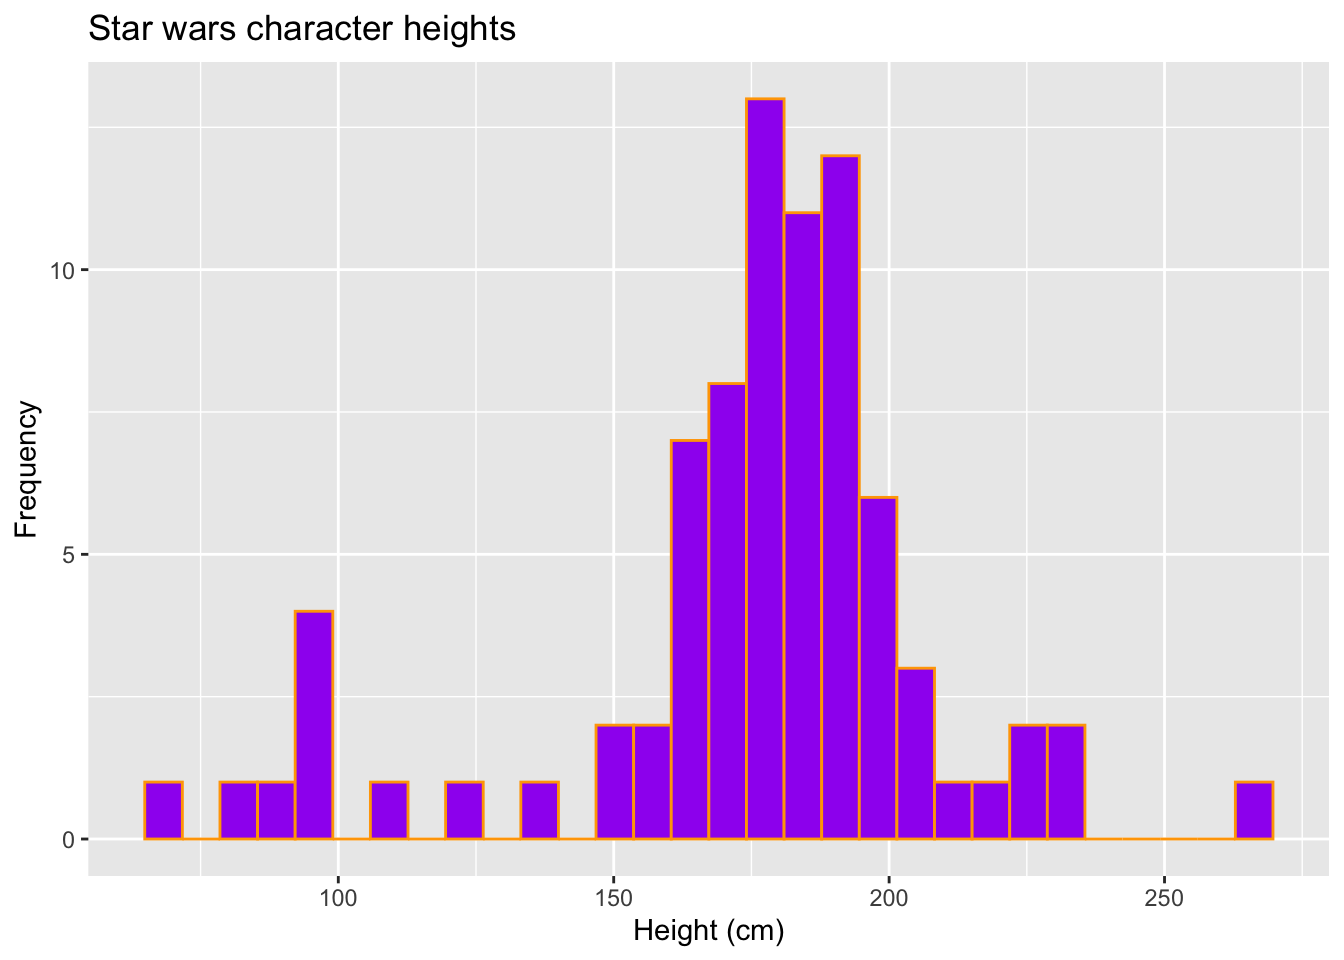
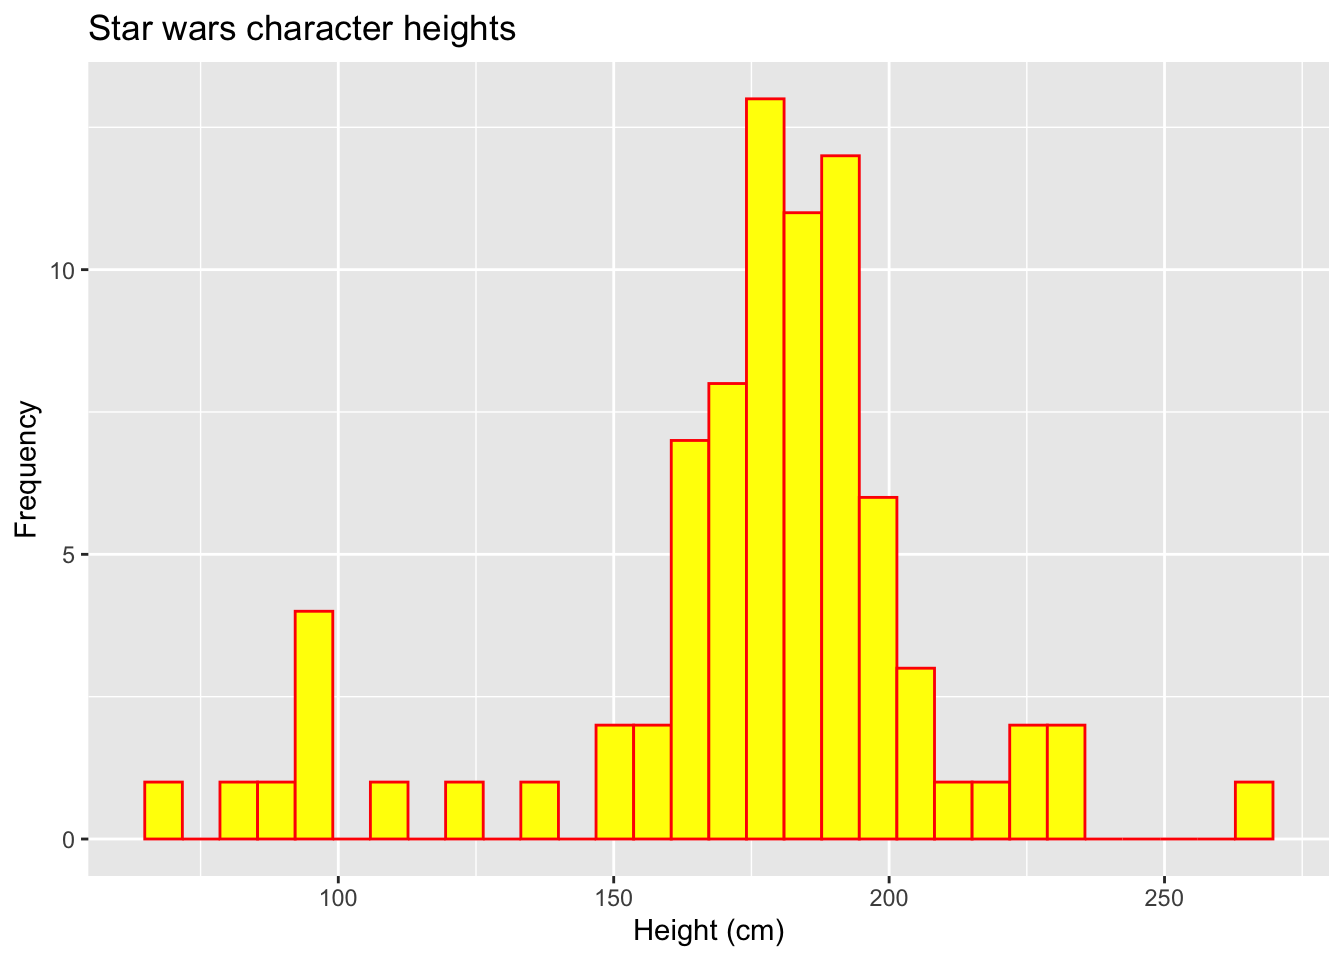
changed those colors again

Changed region(s): [[0.0938, 0.0938, 0.8125, 0.875], [0.9062, 0.8125, 0.9688, 0.875]]

diff --git a/eds212-day5a.html b/eds212-day5a.html
@@ -116,7 +116,7 @@ pre > code.sourceCode > span > a:first-child::before { text-decoration: underlin
 <div class="cell">
 <div class="sourceCode cell-code" id="cb2"><pre class="sourceCode r code-with-copy"><code class="sourceCode r"><span id="cb2-1"><a href="#cb2-1" aria-hidden="true" tabindex="-1"></a><span class="co"># histogram of character heights ----</span></span>
 <span id="cb2-2"><a href="#cb2-2" aria-hidden="true" tabindex="-1"></a><span class="fu">ggplot</span>(starwars, <span class="fu">aes</span>(<span class="at">x =</span> height)) <span class="sc">+</span></span>
-<span id="cb2-3"><a href="#cb2-3" aria-hidden="true" tabindex="-1"></a>  <span class="fu">geom_histogram</span>(<span class="at">fill =</span> <span class="st">"purple"</span>, <span class="at">color =</span> <span class="st">"orange"</span>) <span class="sc">+</span></span>
+<span id="cb2-3"><a href="#cb2-3" aria-hidden="true" tabindex="-1"></a>  <span class="fu">geom_histogram</span>(<span class="at">fill =</span> <span class="st">"yellow"</span>, <span class="at">color =</span> <span class="st">"red"</span>) <span class="sc">+</span></span>
 <span id="cb2-4"><a href="#cb2-4" aria-hidden="true" tabindex="-1"></a>  <span class="fu">labs</span>(<span class="at">x =</span> <span class="st">"Height (cm)"</span>, </span>
 <span id="cb2-5"><a href="#cb2-5" aria-hidden="true" tabindex="-1"></a>       <span class="at">y =</span> <span class="st">"Frequency"</span>, </span>
 <span id="cb2-6"><a href="#cb2-6" aria-hidden="true" tabindex="-1"></a>       <span class="at">title =</span> <span class="st">"Star wars character heights"</span>)</span></code><button title="Copy to Clipboard" class="code-copy-button"><i class="bi"></i></button></pre></div>
